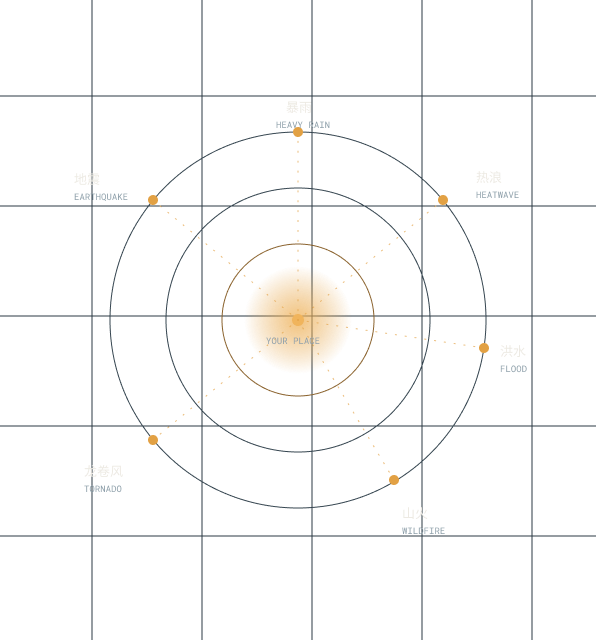
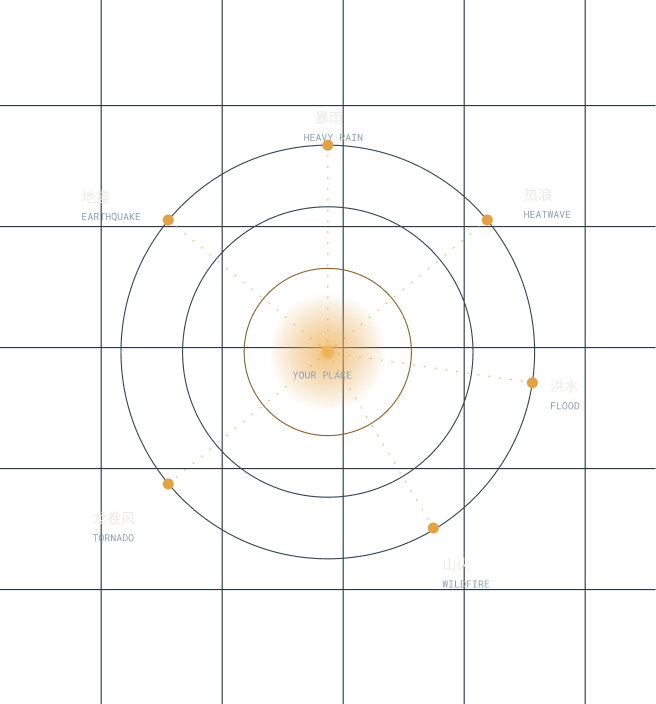
fix(web): regenerate hero radar at larger size

diff --git a/src/styles/global.css b/src/styles/global.css
@@ -65,8 +65,8 @@ footer a{color:inherit}
 .home-action{margin-top:20px;color:var(--night-text);text-decoration:none;font-weight:600}
 .home-action span{color:var(--lamp-bright);margin-left:.25rem}
 .home-metrics{display:flex;gap:44px;list-style:none;padding:0;margin:auto 0 0;color:var(--night-muted)}
-.home-hero-figure{min-width:0;margin:0;padding:34px 32px;display:grid;place-items:center;background:transparent;overflow:hidden}
-.home-hero-figure img{width:min(100%,596px);height:100%;max-height:640px;object-fit:contain;transform:scale(1.1)}
+.home-hero-figure{min-width:0;margin:0;padding:0;display:grid;place-items:center;background:transparent;overflow:hidden}
+.home-hero-figure img{width:min(100%,656px);height:auto;max-height:704px;object-fit:contain}
 .home-risks{background:var(--ink);color:var(--night-text);padding:84px 64px 128px}
 .home-section-head{max-width:1312px;margin:0 auto 44px;display:flex;align-items:flex-end;justify-content:space-between;gap:48px}
 .home-section-head h2,.home-relevance h2,.home-clarity h2,.home-boundary h2{font-family:var(--font-display);font-weight:500;letter-spacing:.005em}
@@ -118,7 +118,7 @@ footer a{color:inherit}
 .home-hero-copy{min-height:34rem;padding:72px var(--pad-x) 48px}
 .home-hero h1{font-size:clamp(2.7rem,14vw,4rem)}
 .home-metrics{gap:14px 28px;flex-wrap:wrap;margin-top:48px}
-.home-hero-figure{padding:24px var(--pad-x);min-height:26rem}
+.home-hero-figure{padding:0;min-height:26rem}
 .home-risks,.home-relevance,.home-clarity,.home-boundary{padding-left:var(--pad-x);padding-right:var(--pad-x)}
 .home-risks{padding-top:64px;padding-bottom:80px}
 .home-section-head{align-items:flex-start;flex-direction:column;gap:24px}

diff --git a/tests/e2e/site.spec.ts b/tests/e2e/site.spec.ts
@@ -27,12 +27,24 @@ test("Hero 右侧图形容器使用透明背景", async ({ page }) => {
   await expect(page.locator(".home-hero-figure")).toHaveCSS("background-color", "rgba(0, 0, 0, 0)");
 });
 
-test("Hero 雷达图放大到 1.1 倍", async ({ page }) => {
+test("Hero 使用重新生成的 1.1 倍雷达图且不依赖 CSS 缩放", async ({ page }) => {
+  await page.setViewportSize({ width: 1440, height: 900 });
   await page.goto("/zh/");
-  await expect(page.locator(".home-hero-figure img")).toHaveCSS(
-    "transform",
-    "matrix(1.1, 0, 0, 1.1, 0, 0)",
-  );
+  const image = page.locator(".home-hero-figure img");
+  await expect(image).toHaveAttribute("width", "656");
+  await expect(image).toHaveAttribute("height", "704");
+  await expect(image).toHaveCSS("transform", "none");
+  await expect
+    .poll(() => image.evaluate((element: HTMLImageElement) => [element.naturalWidth, element.naturalHeight]))
+    .toEqual([656, 704]);
+  await expect
+    .poll(() =>
+      image.evaluate((element) => {
+        const rect = element.getBoundingClientRect();
+        return [Math.round(rect.width), Math.round(rect.height)];
+      }),
+    )
+    .toEqual([656, 704]);
 });
 
 test("320px 无横向滚动", async ({ page }) => {

diff --git a/src/render/home.ts b/src/render/home.ts
@@ -42,7 +42,7 @@ ${c.hero.metrics.map((metric) => `<li>${esc(metric)}</li>`).join("")}
 </ul>
 </div>
 <figure class="home-hero-figure">
-<img src="/assets/home/hero-radar.png" alt="" width="596" height="640" />
+<img src="/assets/home/hero-radar.png" alt="" width="656" height="704" />
 </figure>
 </section>
 <section class="home-risks" id="risks" aria-labelledby="risks-title">
